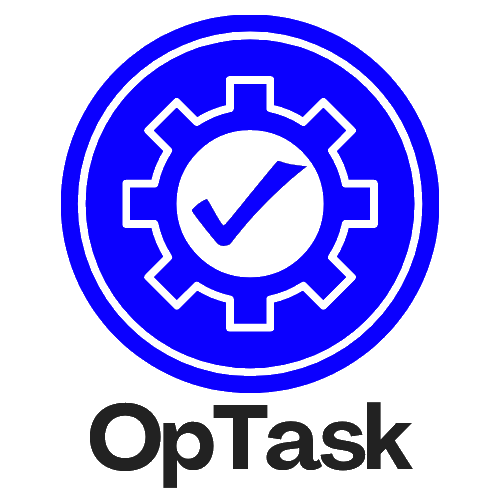
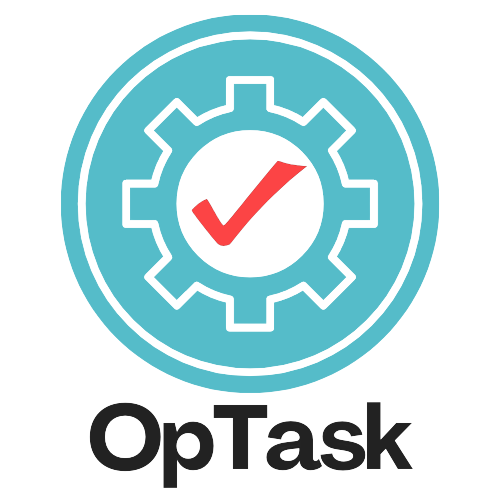
changed color scheme across website

diff --git a/frontend/src/Profile/Profile.js b/frontend/src/Profile/Profile.js
@@ -113,7 +113,7 @@ function Profile() {
                           <h4 class="card-title mb-0">{userData.fullname}</h4>
                           <div className="mt-3">
                             <Link
-                              className="btn btn-primary"
+                              className="btn editBtn"
                               to="/profile/update"
                             >
                               Edit Profile
@@ -173,7 +173,7 @@ function Profile() {
                       </div>
                     </div>
                   </div>
-                  <h3 class="mt-4" style={{color: "#2947f2"}}>Most Recent Projects</h3>
+                  <h3 class="mt-4" style={{color: "#55bcc9"}}>Most Recent Projects</h3>
                 </div>
               )}
               <div className="row row-cols-1 row-cols-md-2 g-4 mb-3">
@@ -193,7 +193,7 @@ function Profile() {
                   );
                 })}
               </div>
-              <svg xmlns="http://www.w3.org/2000/svg" viewBox="0 0 1440 320"><path fill="#2947f2" fill-opacity="1" d="M0,0L48,5.3C96,11,192,21,288,69.3C384,117,480,203,576,208C672,213,768,139,864,133.3C960,128,1056,192,1152,197.3C1248,203,1344,149,1392,122.7L1440,96L1440,320L1392,320C1344,320,1248,320,1152,320C1056,320,960,320,864,320C768,320,672,320,576,320C480,320,384,320,288,320C192,320,96,320,48,320L0,320Z"></path></svg>
+              <svg xmlns="http://www.w3.org/2000/svg" viewBox="0 0 1440 320"><path fill="#97caef" fill-opacity="1" d="M0,0L48,5.3C96,11,192,21,288,69.3C384,117,480,203,576,208C672,213,768,139,864,133.3C960,128,1056,192,1152,197.3C1248,203,1344,149,1392,122.7L1440,96L1440,320L1392,320C1344,320,1248,320,1152,320C1056,320,960,320,864,320C768,320,672,320,576,320C480,320,384,320,288,320C192,320,96,320,48,320L0,320Z"></path></svg>
             </div>
           </div>
           <Footer />

diff --git a/frontend/src/Profile/UpdateProfile.js b/frontend/src/Profile/UpdateProfile.js
@@ -144,12 +144,12 @@ function UpdateProfile() {
                         />
                         <h4 class="card-title mb-0">{nameValue}</h4>
                         <div className="mt-3">
-                          <button type="submit" className="btn btn-primary">
+                          <button type="submit" className="btn editBtn">
                             Save Profile
                           </button>
                         </div>
                         <div className="mt-1">
-                          <Link className="btn btn-primary" id="buttonColor" to="/profile">
+                          <Link className="btn btnCancel" id="buttonColor" to="/profile">
                             Cancel Update
                           </Link>
                         </div>
@@ -232,7 +232,7 @@ function UpdateProfile() {
                   </div>
                 </div>
               </div>)}
-              <svg xmlns="http://www.w3.org/2000/svg" viewBox="0 0 1440 320"><path fill="#2947f2" fill-opacity="1" d="M0,0L48,5.3C96,11,192,21,288,69.3C384,117,480,203,576,208C672,213,768,139,864,133.3C960,128,1056,192,1152,197.3C1248,203,1344,149,1392,122.7L1440,96L1440,320L1392,320C1344,320,1248,320,1152,320C1056,320,960,320,864,320C768,320,672,320,576,320C480,320,384,320,288,320C192,320,96,320,48,320L0,320Z"></path></svg>
+              <svg xmlns="http://www.w3.org/2000/svg" viewBox="0 0 1440 320"><path fill="#97caef" fill-opacity="1" d="M0,0L48,5.3C96,11,192,21,288,69.3C384,117,480,203,576,208C672,213,768,139,864,133.3C960,128,1056,192,1152,197.3C1248,203,1344,149,1392,122.7L1440,96L1440,320L1392,320C1344,320,1248,320,1152,320C1056,320,960,320,864,320C768,320,672,320,576,320C480,320,384,320,288,320C192,320,96,320,48,320L0,320Z"></path></svg>
             </div>
           </form>
           <Footer />

diff --git a/frontend/src/Project/Task.js b/frontend/src/Project/Task.js
@@ -1,5 +1,6 @@
 import { useRef, useState } from "react";
 import { toast } from "react-toastify";
+import "./Task.css";
 
 const Task = (props) => {
   const [editTextAreValue, setTextAreaValue] = useState(props.task.taskText);
@@ -224,13 +225,13 @@ const Task = (props) => {
                 <div className="modal-footer mt-2">
                   <button
                     type="button"
-                    className="btn btn-secondary"
+                    className="btn btnClose"
                     data-bs-dismiss="modal"
                     id={"closeUpdateModalButton" + props.task._id}
                   >
                     Close
                   </button>
-                  <button type="submit" className="btn btn-primary">
+                  <button type="submit" className="btn btnUpdate">
                     Update progress
                   </button>
                 </div>
@@ -279,12 +280,12 @@ const Task = (props) => {
                 <div className="modal-footer">
                   <button
                     type="button"
-                    className="btn btn-secondary"
+                    className="btn btnClose"
                     data-bs-dismiss="modal"
                   >
                     Close
                   </button>
-                  <button type="submit" className="btn btn-primary">
+                  <button type="submit" className="btn btnUpdate">
                     Update Task
                   </button>
                 </div>

diff --git a/frontend/src/Project/Project.js b/frontend/src/Project/Project.js
@@ -143,13 +143,13 @@ const Project = () => {
                 )}
                 <div className="row w-100">
                   <div className="col-10">
-                    <h1 className="h2">
-                      Project:<strong> {projectData.projectName}</strong>
+                    <h1 className="h2 projTitle">
+                      Project:<strong className="projTitle"> {projectData.projectName}</strong>
                     </h1>
                   </div>
                   <div className="col-1">
                     <button
-                      className="btn"
+                      className="btn updateBtn"
                       data-bs-toggle="modal"
                       data-bs-target="#editProjectModal"
                     >
@@ -164,7 +164,7 @@ const Project = () => {
                         <path d="M3 17.25V21h3.75L17.81 9.94l-3.75-3.75L3 17.25zM20.71 7.04c.39-.39.39-1.02 0-1.41l-2.34-2.34c-.39-.39-1.02-.39-1.41 0l-1.83 1.83 3.75 3.75 1.83-1.83z" />
                       </svg>
                     </button>
-                    <button className="btn" onClick={deleteProject}>
+                    <button className="btn btnDelete" onClick={deleteProject}>
                       {/* delete button */}
                       <svg
                         xmlns="http://www.w3.org/2000/svg"

diff --git a/frontend/src/LandingPage/Landing.js b/frontend/src/LandingPage/Landing.js
@@ -14,9 +14,9 @@ const Landing = () => {
       <nav className="navbar navbar-expand-lg navbar-light bg-light fixed-top">
         <div className="container">
           <img src={LogoImage} alt="OpTask Logo" />
-          <a className="navbar-nav linkText" href="/">
+          <h3 className="navbar-nav linkText" href="/">
             OpTask
-          </a>
+          </h3>
           <button
             className="navbar-toggler button-color"
             type="button"
@@ -55,7 +55,7 @@ const Landing = () => {
               <p>A space where you can easily manage all your project tasks.</p>
               <Link
                 type="button"
-                className="btn btn-outline-info btn-lg"
+                className="btn btn-outline-info btn-lg signUpBtn"
                 to="/register"
               >
                 Sign Up

diff --git a/frontend/src/Dashboard/Dashboard.js b/frontend/src/Dashboard/Dashboard.js
@@ -9,6 +9,7 @@ import { makeStyles } from "@material-ui/core/styles";
 import Typography from "@material-ui/core/Typography";
 import { toast } from "react-toastify";
 import Footer from "../Footer/Footer.js";
+import "./Dashboard.css"
 
 //intialize the material ui styles with their hook
 const useStyles = makeStyles((theme) => ({
@@ -255,7 +256,7 @@ function Dashboard(props) {
 
             <main className="col-md-9 ms-sm-auto col-lg-10 px-md-4">
               <div className="d-flex justify-content-between flex-wrap flex-md-nowrap align-items-center pt-3 pb-2 mb-3 border-bottom">
-                <h1 className="h2">Dashboard</h1>
+                <h1 className="h2 dashTitle">Dashboard</h1>
               </div>
               <div className="row row-cols-1 row-cols-md-2 g-4">
                 {isDataLoading && (

diff --git a/frontend/src/Footer/Footer.js b/frontend/src/Footer/Footer.js
@@ -6,11 +6,11 @@ function Footer() {
       <div className="p-4">
         <div className="row align-items-center">
           <div className="col-lg-6 col-md-12 mb-4 mb-md-0">
-            <h5 className="text-uppercase">OpTask</h5>
+            <h5 className="text-uppercase colorDesign">OpTask</h5>
             <p> Built by Nabil Arbouz and Anna Daccache (2021)</p>
           </div>
           <div className="col-lg3 col-md-6 mb-4 mb-md-0">
-            <h5 className="text-uppercase">Links</h5>
+            <h5 className="text-uppercase colorDesign">Links</h5>
             <ul className="list-unstyled mb-0">
               <li>
                 <a

diff --git a/frontend/src/LandingPage/Landing.css b/frontend/src/LandingPage/Landing.css
@@ -11,12 +11,30 @@
 }
 
 .gradient {
-  background: rgb(41, 71, 242);
+  /* background: rgb(41, 71, 242);
   background: linear-gradient(
     90deg,
     rgba(41, 71, 242, 1) 35%,
     rgba(0, 212, 255, 1) 100%
-  );
+  ); */
+  background: rgb(63,238,230);
+  background: linear-gradient(
+    90deg, 
+    rgba(63,238,230,1) 0%, 
+    rgba(85,188,201,1) 50%,
+    rgba(151,202,239,1) 100%);
+}
+
+.signUpBtn {
+  border-color: white;
+  color: white;
+}
+
+.signUpBtn:hover {
+  background-color: #97caef; 
+  /* #3feee6 */
+  color: #fc4445;
+  border-color: #fc4445;
 }
 
 .page-header {

diff --git a/frontend/src/Login/Login.js b/frontend/src/Login/Login.js
@@ -70,11 +70,11 @@ const Login = (props) => {
             <label htmlFor="userPassword">Password</label>
           </div>
 
-          <button type="submit" className="w-100 btn btn-lg btn-primary">
-            Submit
+          <button type="submit" className="w-100 btn btn-lg submitBtn">
+            Log In
           </button>
 
-          <Link class="signup-link" to="/register">
+          <Link className="signup-link" to="/register">
             Don't have an account? Sign up for OpTask!
           </Link>
         </form>

diff --git a/frontend/src/Project/TaskForm.js b/frontend/src/Project/TaskForm.js
@@ -1,5 +1,6 @@
 import { useState } from "react";
 import { toast } from "react-toastify";
+import "./TaskForm.css"
 
 const TaskForm = (props) => {
   const [taskTextValue, setTaskText] = useState("");
@@ -45,7 +46,7 @@ const TaskForm = (props) => {
             required
           />
         </div>
-        <button className="btn btn-primary" type="submit">
+        <button className="btn addBtn" type="submit">
           Add task
         </button>
       </form>

diff --git a/frontend/src/Register/Register.js b/frontend/src/Register/Register.js
@@ -138,8 +138,8 @@ const Register = (props) => {
             <label htmlFor="userPassword">Password</label>
           </div>
   
-          <button type="submit" className="w-100 btn btn-lg btn-primary">
-            Submit
+          <button type="submit" className="w-100 btn btn-lg submitBtn">
+            Sign Up
           </button>
 
           <Link className="signup-link" to="/login">Already have an account? Sign in here!</Link>

diff --git a/frontend/src/Profile/Profile.css b/frontend/src/Profile/Profile.css
@@ -65,3 +65,24 @@
   background-color: red;
   border: transparent;
 }
+
+.editBtn {
+  background-color: #55bcc9;
+  color: white;
+}
+
+.editBtn:hover {
+  background-color: #97caef; 
+  /* #3feee6 */
+  color: #fc4445;
+}
+
+.btnCancel {
+  background-color: #fc4445;
+  color: white;
+}
+
+.btnCancel:hover {
+  color: #97caef; 
+  background-color: #fc4445;
+}
